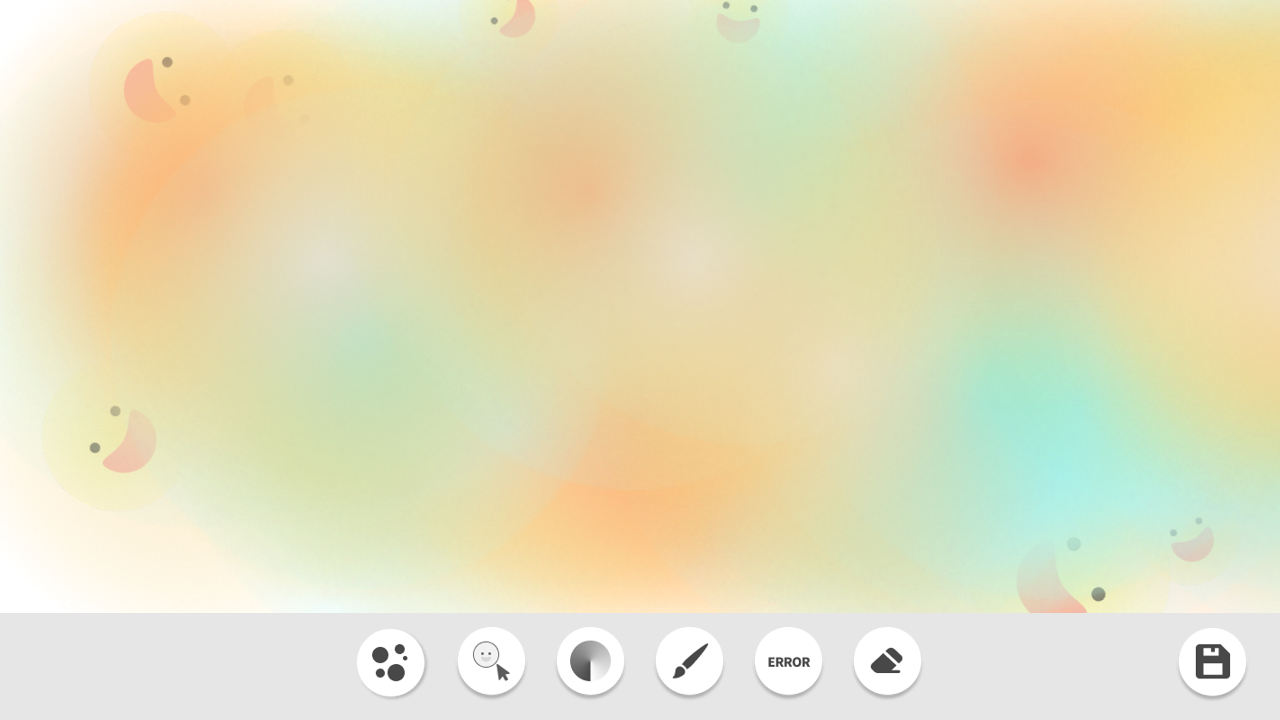
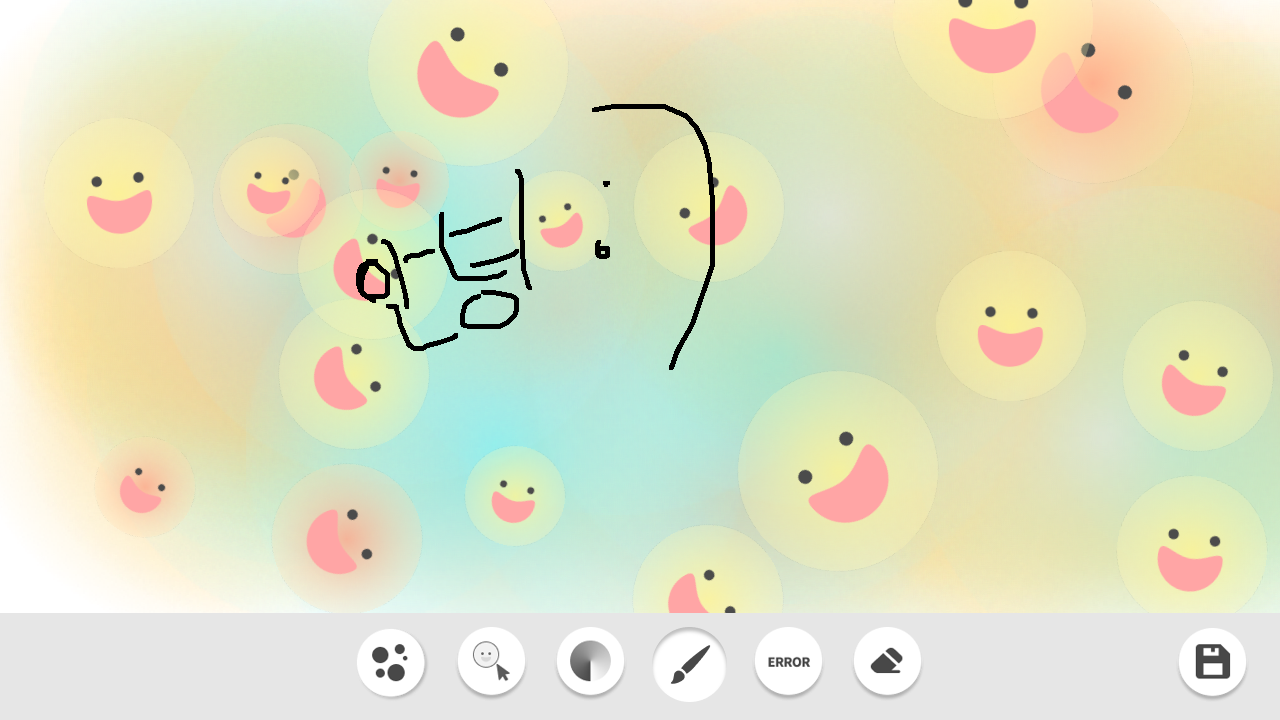
btn4 브러쉬 추가

diff --git a/02_Merge_functions_task/Merge_functions_task.py b/02_Merge_functions_task/Merge_functions_task.py
@@ -1,8 +1,8 @@
 from p5 import *
 from random import choice, randint
 
-button_images = []  
-active_buttons = []  
+button_images = []
+active_buttons = []
 
 smile_img = []
 light_img = []
@@ -15,9 +15,11 @@ save_button = 'deactive'
 frame = True
 smile_active = False
 
+draw_line = False
+path = []
 
 def setup():
-    size(1280, 720)  
+    size(1280, 720)
     no_stroke()
     load_button_images()
 
@@ -28,6 +30,8 @@ def draw():
         frame = False
 
     fill("#E6E6E6")
+    no_stroke()
+    rect_mode('CORNER')
     rect(0, 613, 1280, 108)
 
     # btn1가 활성화되었을 경우
@@ -35,9 +39,8 @@ def draw():
         light_choice_img = choice(light_img)
         image(light_choice_img, randint(0, 1280)-100, randint(0, 300)-100, 500, 500)
 
-    #btn3이 활성화 되었을 경우
+    # btn3이 활성화 되었을 경우
     if 2 in active_buttons:
-
         fill(255)
         circle(1280/2, 613/2, 500)
 
@@ -45,38 +48,42 @@ def draw():
         translate(1280 / 2, 613 / 2)  # 캔버스의 중심점을 회전의 중심점으로 설정합니다
         rotate(radians(mouse_x))  # 마우스의 x좌표에 따라 red 이미지를 회전시킵니다.
         image(circle_image[0], -circle_image[0].width/2, -circle_image[0].height/2)
-
         pop_matrix()
 
         push_matrix()
-
         translate(1280 / 2, 613 / 2)  # 캔버스의 중심점을 회전의 중심점으로 설정합니다
         rotate(radians(mouse_y))  # 마우스의 y좌표에 따라 blue 이미지를 회전시킵니다.
         image(circle_image[1], -circle_image[1].width/2, -circle_image[1].height/2)
         pop_matrix()
 
 
-    #지우개 버튼
-    if 5 in active_buttons: 
+    # 지우개 버튼
+    if 5 in active_buttons:
         frame = True
         active_buttons.remove(5)
 
     draw_button()
 
+    # 라인 그리기
+    if draw_line and len(path) > 1:
+        stroke(0)
+        stroke_weight(5)
+        for i in range(len(path) - 1):
+            line(path[i].x, path[i].y, path[i+1].x, path[i+1].y)
 
 def draw_button():
     global save_button
 
-    #일반 버튼 status
+    # 일반 버튼 status
     for i in range(len(button_images)):
         if i in active_buttons:
             active_image = load_image(f"source/btn/btn{i+1}-active.png")
-            image(active_image, 355+(i*99), 627, 75, 75)  
+            image(active_image, 355+(i*99), 627, 75, 75)
         else:
-            image(button_images[i], 355+(i*99), 627, 75, 75)  
-            
+            image(button_images[i], 355+(i*99), 627, 75, 75)
 
-    #save 버튼 status
+
+    # save 버튼 status
     if save_button == 'deactive':
         image(save_deactive_images, 1175, 628, 75, 75)
     else:
@@ -86,16 +93,15 @@ def draw_button():
 def load_button_images():
     global save_deactive_images
     save_deactive_images = load_image('source/btn/save-deactive.png')
-    
-    #btn1 - red image
+
+    # btn1 - red image
     for i in range(4):
         light_img.append(load_image(f'source/btn1_light/light-red-{100 + (i*50)}.png'))
         light_img.append(load_image(f'source/btn1_light/light-yellow-{100 + (i*50)}.png'))
         light_img.append(load_image(f'source/btn1_light/light-blue-{100 + (i*50)}.png'))
 
-    #btn2 - smile image
+    # btn2 - smile image
     for i in range(3):
-        #smile_img.append(load_image(f'source/btn2_smile/smile-b-{50*(i+1)}.png'))
         smile_img.append(load_image(f'source/btn2_smile/smile-r-{50*(i+2)}.png'))
         smile_img.append(load_image(f'source/btn2_smile/smile-y-{50*(i+2)}.png'))
 
@@ -103,17 +109,15 @@ def load_button_images():
         button_image = load_image(f"source/btn/btn{i+1}-deactive.png")
         button_images.append(button_image)
 
-    #btn3 - circle
+    # btn3 - circle
     for i in ['blue', 'red', 'yellow']:
         circle_image.append(load_image(f"source/btn3_circle/circle-{i}.png"))
 
 
-
 def mouse_pressed():
-    global save_button
-    global circle_choice_img, smile_active
+    global save_button, draw_line, path, smile_active
 
-    #일반 버튼들 상태 전환
+    # 일반 버튼들 상태 전환
     for i in range(len(button_images)):
         button_x = 355 + (i * 99)
         button_y = 613
@@ -131,8 +135,7 @@ def mouse_pressed():
     save_btn_x = 1175
     save_btn_y = 628
 
-
-    #save 버튼 상태 전환
+    # save 버튼 상태 전환
     if save_btn_x <= mouse_x <= save_btn_x + button_width and save_btn_y <= mouse_y <= save_btn_y + button_height:
         if save_button == 'deactive':
             save_button = 'active'
@@ -143,10 +146,10 @@ def mouse_pressed():
 
     # 스마일 버튼 생성
     if 1 in active_buttons:
-        if smile_active: 
+        if smile_active:
             mousey = min(600, mouse_y)  # 마우스의 y 좌표가 613 이상이면 613으로 고정
 
-            choice_smile_img = choice(smile_img)  # 50에서 200 사이의 랜덤 크기 스마일 이미지 선택 
+            choice_smile_img = choice(smile_img)  # 50에서 200 사이의 랜덤 크기 스마일 이미지 선택
 
             push_matrix()  # 현재 변환행렬 저장
 
@@ -158,5 +161,21 @@ def mouse_pressed():
         else:
             smile_active = True
 
+    # 라인 그리기 시작
+    if 3 in active_buttons:
+        draw_line = True
+        path.append(Vector(mouse_x, mouse_y))
+
+def mouse_released():
+    global draw_line, path
+    if 3 in active_buttons:
+        draw_line = False
+        path = []
+
+def mouse_dragged():
+    global draw_line, path
+    if 3 in active_buttons:
+        if draw_line:
+            path.append(Vector(mouse_x, mouse_y))
 
 run()
